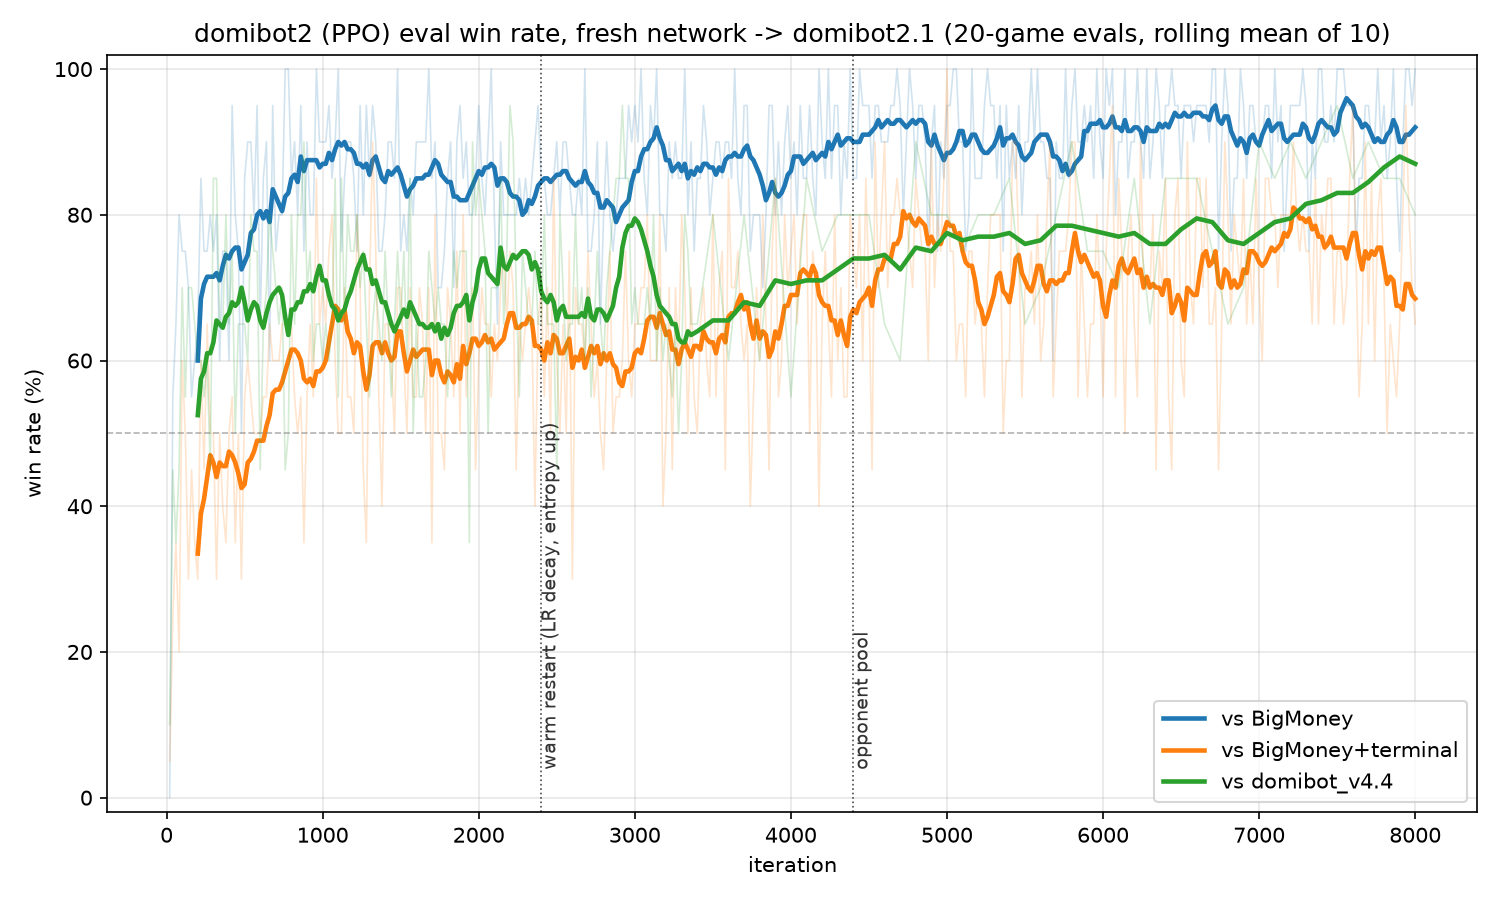
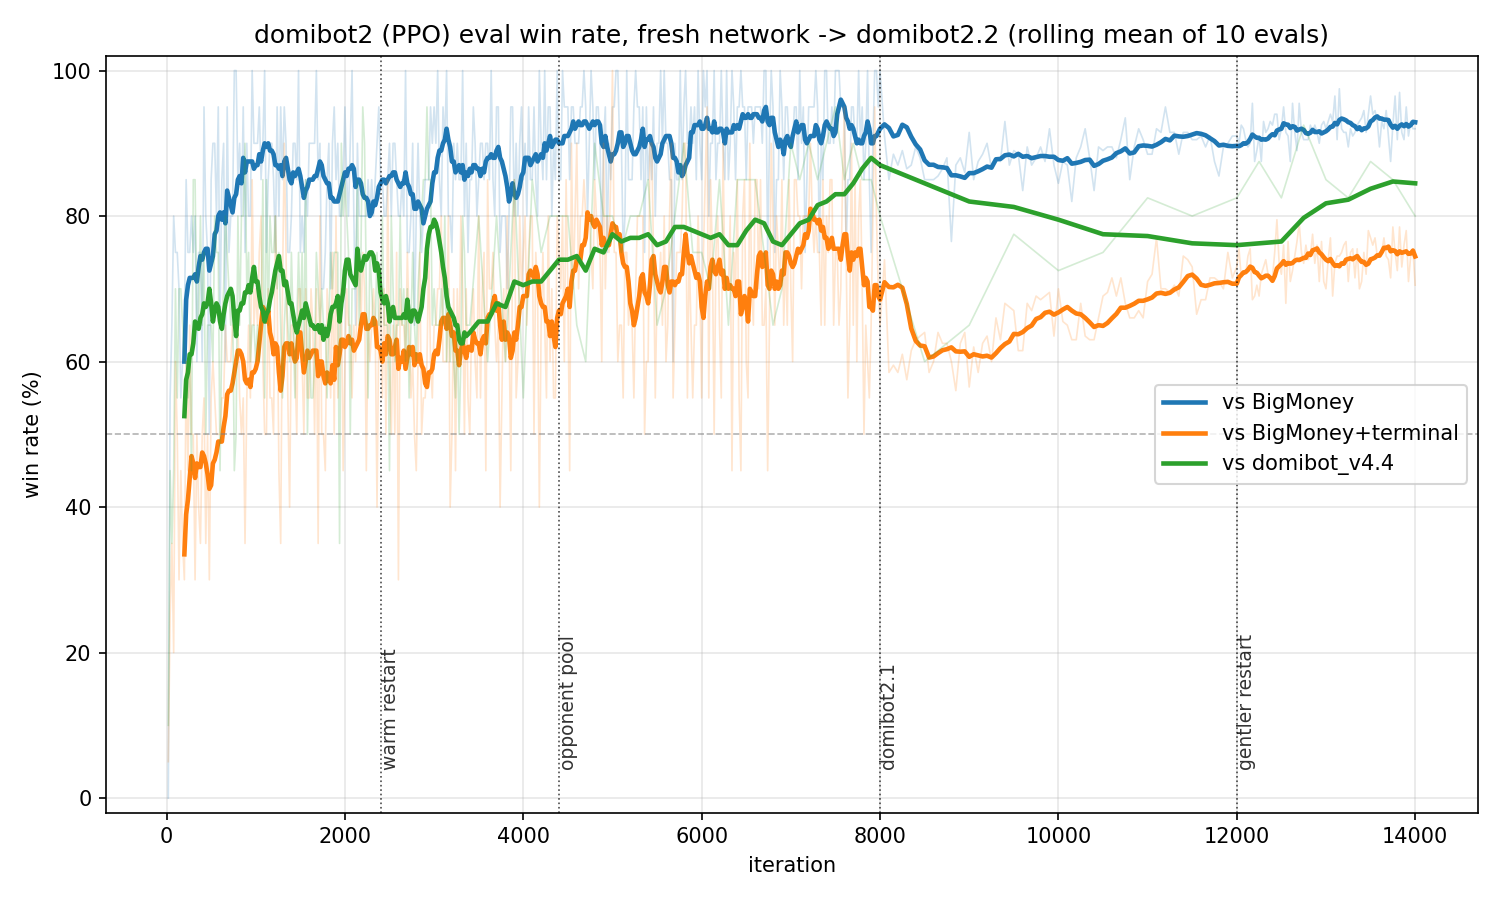
Promote domibot2.2: gentler PPO restart beats 2.1 58-42; larger network no better

diff --git a/examples/play_domibot.py b/examples/play_domibot.py
@@ -9,7 +9,7 @@ The last example loads a *different* checkpoint per seat (length must match
 --players) -- handy for checking whether a later checkpoint actually beats
 an earlier one, not just BigMoney/Random.
 
-Defaults to checkpoints/domibot2/domibot2.1.pt, the strongest checkpoint
+Defaults to checkpoints/domibot2/domibot2.2.pt, the strongest checkpoint
 in the project (see training/README.md's checkpoint lineage table).
 
 Runs on CPU by default so it doesn't compete with a training run that may
@@ -34,7 +34,7 @@ from training.agents import DomibotAgent  # noqa: E402
 from training.network import DomibotNet, get_device  # noqa: E402
 
 GAME_LOGS_DIR = ROOT / "game_logs"
-DEFAULT_CHECKPOINT = ROOT / "checkpoints" / "domibot2" / "domibot2.1.pt"
+DEFAULT_CHECKPOINT = ROOT / "checkpoints" / "domibot2" / "domibot2.2.pt"
 
 
 def load_agents(checkpoint_paths: list[str], num_simulations: int, temperature: float, device: torch.device) -> list[DomibotAgent]:
@@ -77,7 +77,7 @@ def main() -> None:
         raise SystemExit(f"--checkpoints has {len(checkpoint_paths)} entries but --players is {args.players}")
     for path in checkpoint_paths:
         if not Path(path).exists():
-            raise SystemExit(f"no checkpoint at {path} -- download domibot2.1.pt from https://github.com/rafxrs/domibot/releases into checkpoints/domibot2/ (see README Setup), or train your own")
+            raise SystemExit(f"no checkpoint at {path} -- download domibot2.2.pt from https://github.com/rafxrs/domibot/releases into checkpoints/domibot2/ (see README Setup), or train your own")
 
     device = get_device() if args.gpu else torch.device("cpu")
     agents = load_agents(checkpoint_paths, args.simulations, args.temperature, device)

diff --git a/examples/domibot_relay.py b/examples/domibot_relay.py
@@ -72,7 +72,7 @@ click "end actions" -- this does the same, silently, so the recommendation
 you get is always the useful one (what to buy), not "end your action
 phase" (something you'd never actually see asked on the real site).
 
-Defaults to the strongest checkpoint in the project, `domibot2.1.pt`
+Defaults to the strongest checkpoint in the project, `domibot2.2.pt`
 (domibot 2's PPO lineage -- see training/README.md). This still works
 via MCTS search (`training/mcts.py`'s `run_mcts`) exactly as it did for
 the MCTS lineage's checkpoints, even though domibot 2 itself never
@@ -107,7 +107,7 @@ from training.relay import (  # noqa: E402
     resolve_card_name,
 )
 
-DEFAULT_CHECKPOINT = ROOT / "checkpoints" / "domibot2" / "domibot2.1.pt"
+DEFAULT_CHECKPOINT = ROOT / "checkpoints" / "domibot2" / "domibot2.2.pt"
 
 
 _LEADING_COUNT = re.compile(r"^(\d+)x?$", re.IGNORECASE)
@@ -397,7 +397,7 @@ def main() -> None:
         return
 
     if not Path(args.checkpoint).exists():
-        raise SystemExit(f"no checkpoint at {args.checkpoint} -- download domibot2.1.pt from https://github.com/rafxrs/domibot/releases into checkpoints/domibot2/ (see README Setup), or train your own")
+        raise SystemExit(f"no checkpoint at {args.checkpoint} -- download domibot2.2.pt from https://github.com/rafxrs/domibot/releases into checkpoints/domibot2/ (see README Setup), or train your own")
 
     device = get_device() if args.gpu else torch.device("cpu")
     network = DomibotNet.load(args.checkpoint, map_location=device).to(device)

diff --git a/examples/play_vs_domibot.py b/examples/play_vs_domibot.py
@@ -5,7 +5,7 @@
     python examples/play_vs_domibot.py --gpu   # only if you're not also training right now
     python examples/play_vs_domibot.py --gui   # a pygame window instead of the text prompt
 
-Defaults to checkpoints/domibot2/domibot2.1.pt, the strongest checkpoint
+Defaults to checkpoints/domibot2/domibot2.2.pt, the strongest checkpoint
 in the project (see training/README.md's checkpoint lineage table).
 
 Runs on CPU by default so it doesn't compete with a training run that may
@@ -31,7 +31,7 @@ from training.agents import DomibotAgent  # noqa: E402
 from training.network import DomibotNet, get_device  # noqa: E402
 
 GAME_LOGS_DIR = ROOT / "game_logs"
-DEFAULT_CHECKPOINT = ROOT / "checkpoints" / "domibot2" / "domibot2.1.pt"
+DEFAULT_CHECKPOINT = ROOT / "checkpoints" / "domibot2" / "domibot2.2.pt"
 
 HUMAN = 0
 BOT = 1
@@ -84,7 +84,7 @@ def main() -> None:
     args = parser.parse_args()
 
     if not Path(args.checkpoint).exists():
-        raise SystemExit(f"no checkpoint at {args.checkpoint} -- download domibot2.1.pt from https://github.com/rafxrs/domibot/releases into checkpoints/domibot2/ (see README Setup), or train your own")
+        raise SystemExit(f"no checkpoint at {args.checkpoint} -- download domibot2.2.pt from https://github.com/rafxrs/domibot/releases into checkpoints/domibot2/ (see README Setup), or train your own")
 
     device = get_device() if args.gpu else torch.device("cpu")
     network = DomibotNet.load(args.checkpoint, map_location=device).to(device)

diff --git a/training/ppo/plot_eval.py b/training/ppo/plot_eval.py
@@ -135,7 +135,7 @@ def plot(series: dict[str, tuple[list[int], list[float]]], title: str, out: Path
     ax.set_ylim(-2, 102)
     ax.axhline(50, color="gray", linewidth=0.8, linestyle="--", alpha=0.6)
     ax.set_title(title)
-    ax.legend(loc="lower right")
+    ax.legend(loc="center right")  # the bottom edge holds the --vline labels
     ax.grid(True, alpha=0.3)
     fig.tight_layout()
     fig.savefig(out, dpi=150)

diff --git a/training/README.md b/training/README.md
@@ -96,7 +96,8 @@ demand, which is deterministic because every random draw goes through
 | v4.2-v4.3 | warm-restart LR cycles | 35/60 peak; v4.2 never plays two action cards in a turn |
 | v4.4 | `action_bias` x2.75 (no effect); TD-bootstrapped value targets + opponent pool | 40/60 vs BigMoney, 36/60 vs BigMoney+terminal; still never chains |
 | (unpromoted) | same TD+pool recipe, fresh network | 21–36–3 vs BigMoney, 15–44–1 vs +terminal (60 games each); still no chaining — rules out entrenchment as the cause |
-| **domibot2.1** | **Phase 2: PPO + GAE, no tree search** | **351–43–6 vs BigMoney (400 games), 159–36–5 vs v4.4 (200 games); real multi-action engine turns** |
+| domibot2.1 | Phase 2: PPO + GAE, no tree search | 351–43–6 vs BigMoney (400 games), 159–36–5 vs v4.4 (200 games); real multi-action engine turns |
+| **domibot2.2** | **PPO resumed with 4x the games per update and a quarter of the learning rate** | **1130–797–73 vs domibot2.1 (2000 games); 367–26–7 vs BigMoney (400), 169–30–1 vs v4.4 (200)** |
 
 **Why it failed.** It plateaued at Big Money + Witch: from v4.2 on, the
 question wasn't win rate but whether it ever discovers multi-step strategy,
@@ -161,15 +162,19 @@ Checkpoints land in `checkpoints/domibot2/` as `<run-name>_latest.pt` plus
 a `<run-name>_iter_N.pt` snapshot every eval; `--run-name` defaults to
 `domibot2`.
 
-A longer run, resumed from the current strongest checkpoint and
-backgrounded with its output logged to a file:
+A longer run, resumed from the current strongest checkpoint with the
+settings that produced it and backgrounded with its output logged to a
+file. Resuming a trained policy at a higher learning rate or with smaller
+batches erodes it first (see "Restarting PPO without losing strength"
+below):
 
 ```bash
 python -m training.ppo.train \
-    --iterations 4000 --games-per-iter 64 \
-    --checkpoint checkpoints/domibot2/domibot2.1.pt \
-    --eval-every 20 --eval-games 20 \
-    --eval-reference-checkpoint checkpoints/domibot1/domibot_v4.4.pt --eval-reference-every 100 \
+    --checkpoint checkpoints/domibot2/domibot2.2.pt --start-iteration 14001 \
+    --iterations 2000 --games-per-iter 256 --minibatch-size 1024 \
+    --lr 5e-5 --lr-final-frac 0.1 --target-kl 0.02 \
+    --eval-every 25 --eval-games 200 \
+    --eval-reference-checkpoint checkpoints/domibot1/domibot_v4.4.pt --eval-reference-every 250 \
     > logs/domibot2/my_run.log 2>&1 &
 ```
 
@@ -180,17 +185,20 @@ merge a resumed run into one history; `--smooth N` plots a rolling mean,
 
 ```bash
 python -m training.ppo.plot_eval logs/domibot2/domibot2_stage1_run{1,2,3,3b}.log \
-    logs/domibot2/domibot2_stage3_pool_run1.log --no-trend --smooth 10 \
-    --vline "2400:warm restart (LR decay, entropy up)" --vline "4400:opponent pool" \
-    --title "domibot2 (PPO) eval win rate, fresh network -> domibot2.1 (20-game evals, rolling mean of 10)" \
+    logs/domibot2/domibot2_stage3_pool_run1.log logs/domibot2/domibot2.2_run1.log \
+    logs/domibot2/domibot2_256x4_control_run1.log --no-trend --smooth 10 \
+    --vline "2400:warm restart" --vline "4400:opponent pool" \
+    --vline "8000:domibot2.1" --vline "12000:gentler restart" \
+    --title "domibot2 (PPO) eval win rate, fresh network -> domibot2.2 (rolling mean of 10 evals)" \
     --out docs/training_curve.png
 ```
 
-**Training arc** (fresh network through 8000 iterations; promoted
+**Training arc** (fresh network through 14000 iterations; promoted
 checkpoints are named `domibotN.M.pt`, with logs/checkpoints under
 `logs/domibot2/` and `checkpoints/domibot2/`). In-training evals are 20
-games each, so single points are noisy (±~20pp); the curve below is a
-rolling mean.
+games each through iteration 8000 (single points noisy, ±~20pp) and 200
+after, on different kingdoms each time; the curve below is a rolling mean.
+Promotion decisions use larger evals on fixed seeds, given below.
 
 ![Training curve](../docs/training_curve.png)
 
@@ -209,8 +217,8 @@ rolling mean.
   58/209), likely because the pool's snapshots were too recent to add real
   diversity. Final eval: 20/20, 13/20, 16/20.
 
-`iter_8000` is promoted as **`domibot2.1.pt`**, the current strongest
-checkpoint (superseding an earlier interim promotion of `iter_400` under
+`iter_8000` is promoted as **`domibot2.1.pt`**, the strongest checkpoint
+until `domibot2.2` (superseding an earlier interim promotion of `iter_400` under
 the same name). A larger post-hoc eval (raw policy, no search, paired random
 kingdoms): 351–43–6 vs BigMoney and 286–103–11 vs BigMoney+terminal over
 400 games each, and 159–36–5 vs `domibot_v4.4.pt` (100-sim MCTS) over 200. Download it from the
@@ -369,8 +377,33 @@ differs from the 2.2 run (4x the games per update, a quarter of the
 learning rate), so it tests whether a gentler restart alone helps the
 256×4 network.
 
-Results: in progress. The bar for promotion to `domibot2.2` is beating
-`domibot2.1` head-to-head over 2000 games with a 95% CI above 50%.
+**Results.** Both runs finished 2000 iterations. Their final checkpoints
+were evaluated on the same seeds as `domibot2.1`, raw policy with no
+search (`logs/domibot2/*_iter_14000_eval.log`; 95% CIs in parentheses):
+
+| | 256×4 control | 512×6, one pass | `domibot2.1` |
+|---|---|---|---|
+| vs `domibot2.1` (2000 games) | 1130–797–73, 58.3% (56.2–60.5%) | 1137–776–87, 59.0% (56.9–61.2%) | — |
+| vs BigMoney+terminal (2000) | 76.8% (75.0–78.6%) | 76.1% (74.2–78.0%) | 72.0% (70.0–74.0%) |
+| vs BigMoney (400) | 92.6% | 91.4% | 88.5% |
+| vs `domibot_v4.4` (200) | 84.8% | 85.2% | 80.8% |
+
+Head-to-head, the two drew: 963–957–80 over 2000 games (50.1%, 95% CI
+48.0–52.3%). So:
+
+- **The gain came from the gentler restart, not the size.** The 256×4
+  control, resumed from `domibot2_iter_12000.pt` with 4x the games per
+  update and a quarter of the 2.2 attempt's learning rate, beat
+  `domibot2.1` 58–42. The 2.2 attempt's higher learning rate spent its
+  4000 iterations recovering from its own restart instead.
+- **5x the parameters bought nothing measurable**, and the larger network
+  was harder to train: it needed one pass per batch to stop fitting
+  advantage noise.
+
+The control's final checkpoint, `domibot2_256x4_iter_14000.pt`, is
+promoted as **`domibot2.2.pt`**: as strong as the 512×6 network, a fifth
+the size, and faster for the relay tool's search. Download it from the
+[Releases page](https://github.com/rafxrs/domibot/releases).
 
 **Playing against / evaluating it**:
 
@@ -381,7 +414,7 @@ from training.evaluate import play_match
 from training.network import DomibotNet, get_device
 
 device = get_device()
-network = DomibotNet.load("checkpoints/domibot2/domibot2.1.pt", map_location=device).to(device)
+network = DomibotNet.load("checkpoints/domibot2/domibot2.2.pt", map_location=device).to(device)
 domibot = DomibotAgent(network, num_simulations=200, device=device)
 
 print(play_match(domibot, BigMoneyAgent(), n_games=50))
@@ -404,9 +437,9 @@ mid-turn choices like an unresolved Chapel trash) falls back to manual
 entry.
 
 ```bash
-python examples/domibot_relay.py --checkpoint checkpoints/domibot2/domibot2.1.pt --simulations 400
+python examples/domibot_relay.py --checkpoint checkpoints/domibot2/domibot2.2.pt --simulations 400
 ```
 
 **Not yet done**: a privileged (full-information) critic, a more varied
-opponent pool (older checkpoints, scripted strategies), further
-hyperparameter tuning.
+opponent pool (older checkpoints, scripted strategies), and continuing
+from `domibot2.2` with its own recipe to see where it plateaus.

diff --git a/README.md b/README.md
@@ -12,16 +12,18 @@ Laboratory → Laboratory → Militia.*
 
 ## Results
 
-`domibot2.1`, a PPO-trained policy playing with no search, on random
+`domibot2.2`, a PPO-trained policy playing with no search, on random
 10-card kingdoms (each kingdom played twice with seats swapped):
 
-- **vs Big Money** (the standard Dominion baseline): 351–43–6 (W–L–T) over
-  400 games, 88.5% (95% CI 85–91%)
-- **vs Big Money + the kingdom's best terminal Action**: 286–103–11 over
-  400 games, 72.9% (95% CI 68–77%)
+- **vs Big Money** (the standard Dominion baseline): 367–26–7 (W–L–T) over
+  400 games, 92.6% (95% CI 90–95%)
+- **vs Big Money + the kingdom's best terminal Action**: 1509–435–56 over
+  2000 games, 76.8% (95% CI 75–79%)
 - **vs `domibot_v4.4`** (the best AlphaZero-style checkpoint, running
-  100-simulation MCTS at every move): 159–36–5 over 200 games, 80.8%
-  (95% CI 75–86%), with no search of its own
+  100-simulation MCTS at every move): 169–30–1 over 200 games, 84.8%
+  (95% CI 79–89%), with no search of its own
+- **vs `domibot2.1`** (the previous release): 1130–797–73 over 2000 games,
+  58.3% (95% CI 56–61%)
 
 Unlike the MCTS approach it replaced, it learns multi-card engine turns.
 See [training/README.md](training/README.md) for how it got here.
@@ -41,12 +43,12 @@ Python 3.10+. `train` pulls in `torch` (CPU build by default — see
 `gui` pulls in `pygame`. Drop either extra you don't need.
 
 The trained model isn't in git (`checkpoints/` is gitignored). Download
-`domibot2.1.pt` from the [Releases page](https://github.com/rafxrs/domibot/releases)
+`domibot2.2.pt` from the [Releases page](https://github.com/rafxrs/domibot/releases)
 into `checkpoints/domibot2/`, where every script looks for it by default:
 
 ```bash
 mkdir -p checkpoints/domibot2
-curl -L -o checkpoints/domibot2/domibot2.1.pt https://github.com/rafxrs/domibot/releases/download/domibot2.1/domibot2.1.pt
+curl -L -o checkpoints/domibot2/domibot2.2.pt https://github.com/rafxrs/domibot/releases/download/domibot2.2/domibot2.2.pt
 ```
 
 ## Play
@@ -76,17 +78,19 @@ curl -L -o checkpoints/domibot2/domibot2.1.pt https://github.com/rafxrs/domibot/
   python -m training.train
   python -m training.ppo.train
   ```
-- A longer PPO run, resumed from the current strongest checkpoint and
-  backgrounded with its output logged to a file — the reference-checkpoint
-  eval uses real MCTS search and dominates wall-clock time, so
-  `--eval-reference-every` lets it run far less often than the cheap
-  BigMoney evals (see `training/README.md`'s Phase 2 section):
+- A longer PPO run, resumed from the current strongest checkpoint with the
+  settings that produced it, backgrounded with its output logged to a
+  file. Large batches and a low learning rate matter here: a higher one
+  erodes a trained policy (see `training/README.md`'s Phase 2 section).
+  The reference-checkpoint eval uses real MCTS search and dominates
+  wall-clock time, so `--eval-reference-every` runs it far less often:
   ```bash
   python -m training.ppo.train \
-      --iterations 4000 --games-per-iter 64 \
-      --checkpoint checkpoints/domibot2/domibot2.1.pt \
-      --eval-every 20 --eval-games 20 \
-      --eval-reference-checkpoint checkpoints/domibot1/domibot_v4.4.pt --eval-reference-every 100 \
+      --checkpoint checkpoints/domibot2/domibot2.2.pt --start-iteration 14001 \
+      --iterations 2000 --games-per-iter 256 --minibatch-size 1024 \
+      --lr 5e-5 --lr-final-frac 0.1 --target-kl 0.02 \
+      --eval-every 25 --eval-games 200 \
+      --eval-reference-checkpoint checkpoints/domibot1/domibot_v4.4.pt --eval-reference-every 250 \
       > logs/domibot2/my_run.log 2>&1 &
   ```
 - Evaluate a checkpoint against the baseline agents:
@@ -193,6 +197,6 @@ MCTS self-play (`training/train.py`) or PPO (`training/ppo/train.py`). See
 
 ## What's not here yet (next layers)
 
-- Domibot's PPO training is a first working version, not a tuned one —
-  see "Not yet done" in `training/README.md`'s Phase 2 section.
+- More PPO improvements — see "Not yet done" in `training/README.md`'s
+  Phase 2 section.
 - Anything beyond the base set (no other expansions, no >4 players).
